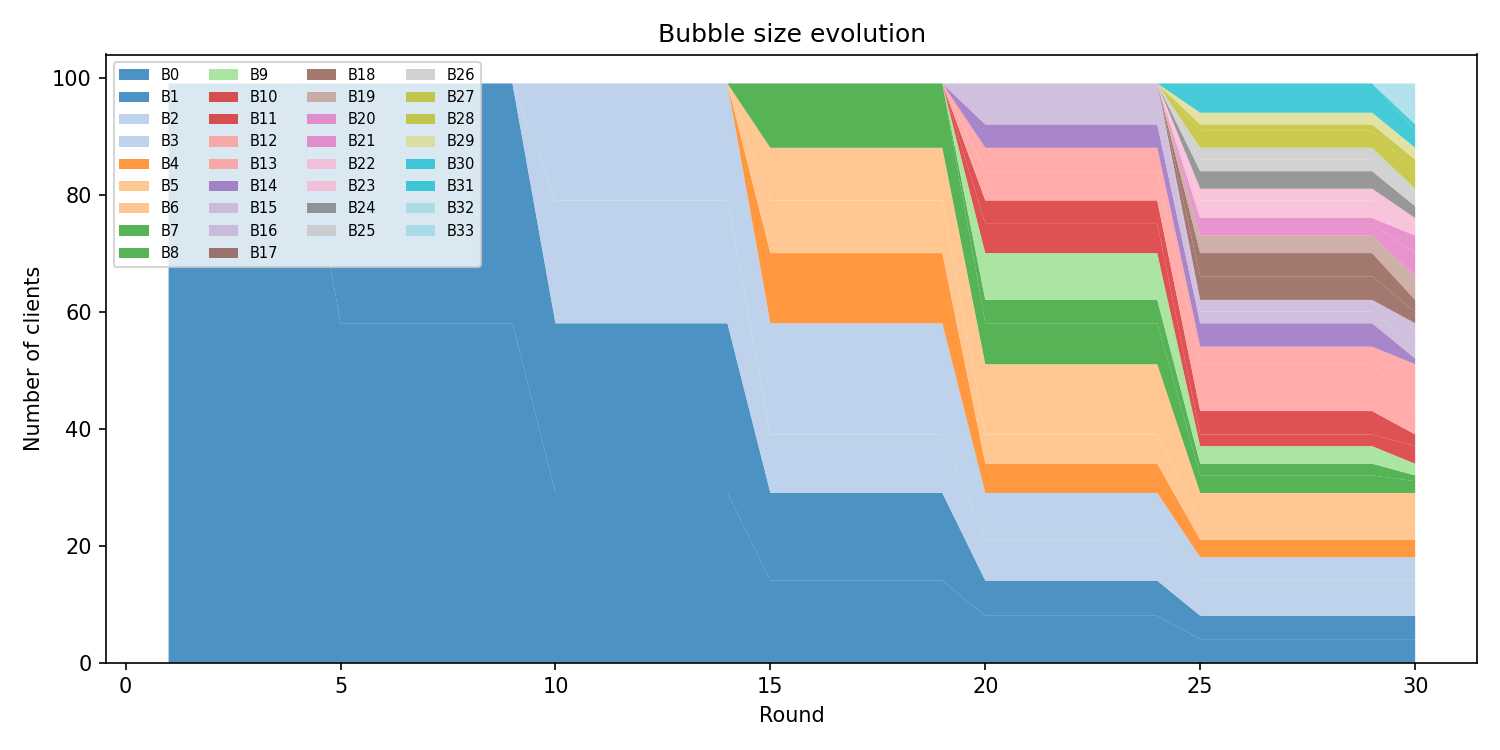
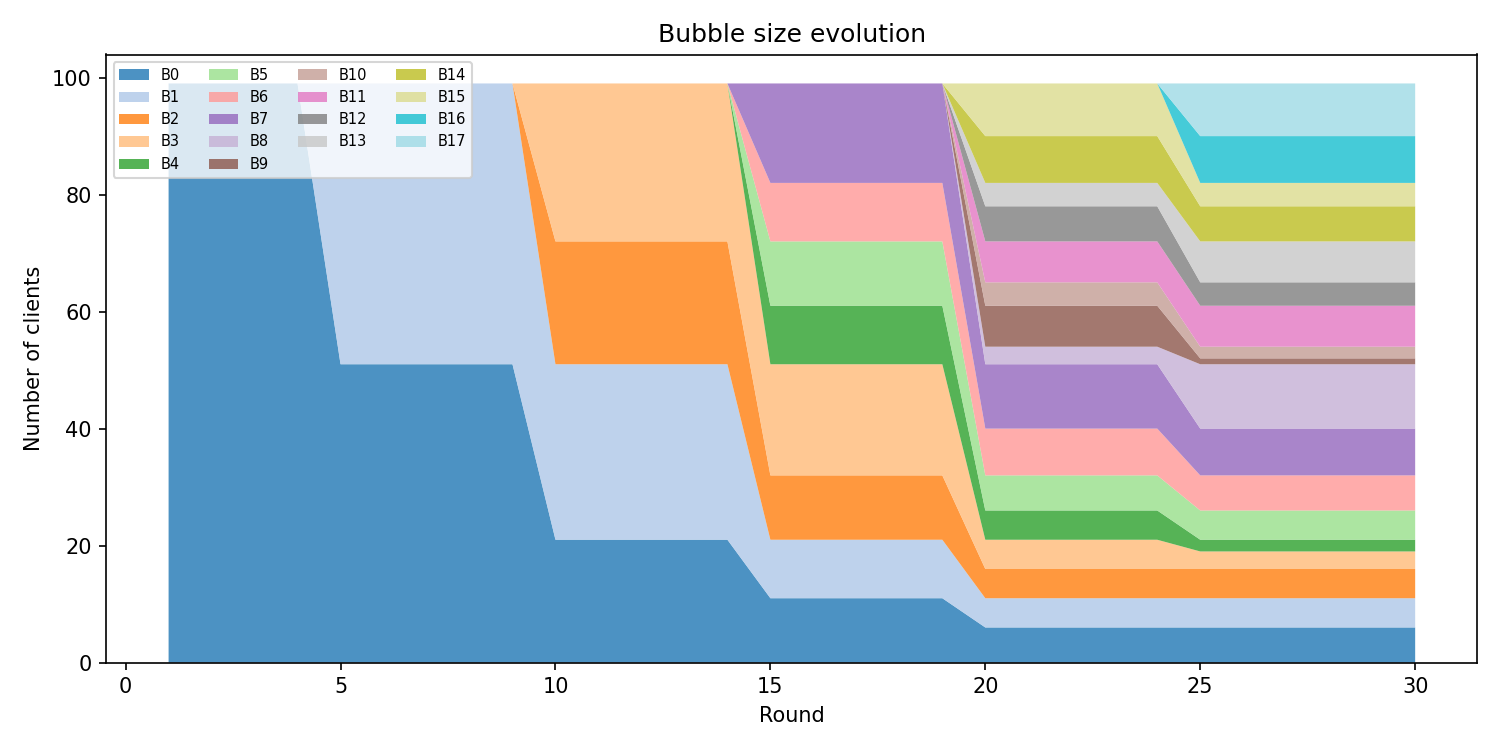
re sweep

diff --git a/train.py b/train.py
@@ -35,8 +35,8 @@ LR = 1e-3
 SPLIT_EVERY = 5
 MERGE_EVERY = 10
 SPLIT_THRESHOLD = 1.0
-MERGE_THRESHOLD = 0.5
-ANNEALING_RATE = 1.5
+MERGE_THRESHOLD = 2.0
+ANNEALING_RATE = 2.0
 
 
 def save_figures(results_dir, figures_dir):
@@ -105,25 +105,49 @@ def save_figures(results_dir, figures_dir):
     plt.savefig(figures_dir / "final_bubbles_scatter.png", dpi=150)
     plt.close()
 
-    # 4. クライアントごとの損失曲線
-    final_round_history = bubble_history[-1]["bubbles"]
-    client_to_bubble = {c: bid for bid, clients in final_round_history.items() for c in clients}
+    # 4. バブルごとの平均損失曲線（ラウンドごとのバブル帰属を使用）
+    all_bubble_ids = sorted({bid for h in bubble_history for bid in h["bubbles"]}, key=int)
+    colors = cm.tab20(np.linspace(0, 1, len(all_bubble_ids)))
+    bubble_color = {bid: c for bid, c in zip(all_bubble_ids, colors)}
+
+    bubble_losses = {}
+    for h in bubble_history:
+        r = h["round"]
+        for bid, clients in h["bubbles"].items():
+            ls = [loss_history[c][r - 1] for c in clients if c in loss_history]
+            if ls:
+                bubble_losses.setdefault(bid, {})[r] = sum(ls) / len(ls)
+
     fig, ax = plt.subplots(figsize=(10, 5))
-    colors = cm.tab20(np.linspace(0, 1, len(final_round_history)))
-    bubble_color = {bid: c for bid, c in zip(sorted(final_round_history, key=int), colors)}
-    plotted_labels = set()
-    for cid, losses in loss_history.items():
-        bid = client_to_bubble.get(cid, "?")
-        color = bubble_color.get(bid, "gray")
-        label = f"B{bid}" if bid not in plotted_labels else "_nolegend_"
-        plotted_labels.add(bid)
-        ax.plot(range(1, len(losses) + 1), losses, color=color, alpha=0.4, linewidth=0.8, label=label)
+    for bid in all_bubble_ids:
+        if bid not in bubble_losses:
+            continue
+        rs = sorted(bubble_losses[bid])
+        ls = [bubble_losses[bid][r] for r in rs]
+        ax.plot(rs, ls, color=bubble_color[bid], linewidth=1.5,
+                marker="o", markersize=3, label=f"B{bid}")
     ax.set_xlabel("Round")
-    ax.set_ylabel("Loss")
-    ax.set_title("Per-client loss curves (colored by final bubble)")
+    ax.set_ylabel("Mean loss")
+    ax.set_title("Per-bubble mean loss curves")
     ax.legend(loc="upper right", fontsize=7, ncol=4)
     plt.tight_layout()
-    plt.savefig(figures_dir / "client_losses.png", dpi=150)
+    plt.savefig(figures_dir / "bubble_losses.png", dpi=150)
+    plt.close()
+
+    # 5. バブルごとの W2² 推移
+    all_w2_bids = sorted({bid for h in bubble_history for bid in h.get("intra_w2", {})}, key=int)
+    colors_w2 = cm.tab20(np.linspace(0, 1, len(all_w2_bids)))
+    fig, ax = plt.subplots(figsize=(10, 5))
+    for bid, color in zip(all_w2_bids, colors_w2):
+        rs = [h["round"] for h in bubble_history if bid in h.get("intra_w2", {})]
+        vs = [h["intra_w2"][bid] for h in bubble_history if bid in h.get("intra_w2", {})]
+        ax.plot(rs, vs, color=color, linewidth=1.5, marker="o", markersize=3, label=f"B{bid}")
+    ax.set_xlabel("Round")
+    ax.set_ylabel("Intra-bubble W2²")
+    ax.set_title("Intra-bubble W2² per round (per bubble)")
+    ax.legend(loc="upper right", fontsize=7, ncol=4)
+    plt.tight_layout()
+    plt.savefig(figures_dir / "intra_w2.png", dpi=150)
     plt.close()
 
     print(f"  figures → {figures_dir}")
@@ -234,10 +258,12 @@ def run(subject_datasets, client_ids, label_stats, results_dir,
                 if verbose:
                     print(f"  [Merge] {before} → {after} bubbles")
 
+        intra_w2 = server.intra_w2_per_bubble(all_stats)
         bubble_history.append({
             "round": round_idx + 1,
             "bubbles": {str(bid): sorted(b["clients"]) for bid, b in server.bubbles.items()},
             "mean_loss": round_mean_loss,
+            "intra_w2": {str(bid): v for bid, v in intra_w2.items()},
         })
 
     # 予測

diff --git a/sweep_ANNEALING.py b/sweep_ANNEALING.py
@@ -1,0 +1,84 @@
+"""
+annealing_rate を複数の値で試すスイープスクリプト．
+結果は保存せず，ラウンドごとの mean loss と mean intra-bubble W2² を閾値ごとの折れ線でプロットする．
+"""
+
+import sys
+import json
+import tempfile
+import matplotlib.pyplot as plt
+import matplotlib.cm as cm
+import numpy as np
+from pathlib import Path
+
+sys.stdout.reconfigure(line_buffering=True)
+sys.path.insert(0, str(Path(__file__).parent))
+
+from train import prepare_data, run, get_device
+
+ANNEALING_RATES = [1.0, 1.2, 1.5, 2.0, 2.5, 3.0]
+SPLIT_THRESHOLD = 1.0
+MERGE_THRESHOLD = 2.0
+
+
+def main():
+    device = get_device()
+    print(f"Device: {device}")
+
+    subject_ids, label_stats, subject_datasets, client_ids = prepare_data(device)
+    print(f"Active clients: {len(client_ids)}")
+
+    colors = cm.tab10(np.linspace(0, 1, len(ANNEALING_RATES)))
+    fig_loss, ax_loss = plt.subplots(figsize=(10, 5))
+    fig_w2,   ax_w2   = plt.subplots(figsize=(10, 5))
+
+    for ar, color in zip(ANNEALING_RATES, colors):
+        print(f"\n--- annealing_rate={ar} ---")
+        with tempfile.TemporaryDirectory() as tmpdir:
+            run(
+                subject_datasets, client_ids, label_stats,
+                results_dir=tmpdir,
+                split_threshold=SPLIT_THRESHOLD,
+                merge_threshold=MERGE_THRESHOLD,
+                annealing_rate=ar,
+                verbose=False,
+            )
+            with open(Path(tmpdir) / "data" / "bubble_history.json") as f:
+                bubble_history = json.load(f)
+
+        rounds = [h["round"] for h in bubble_history]
+        mean_losses = [h["mean_loss"] for h in bubble_history]
+        ax_loss.plot(rounds, mean_losses, color=color, linewidth=1.5,
+                     marker="o", markersize=3, label=f"annealing={ar}")
+
+        mean_w2s = [
+            np.mean(list(h["intra_w2"].values())) if h.get("intra_w2") else 0.0
+            for h in bubble_history
+        ]
+        ax_w2.plot(rounds, mean_w2s, color=color, linewidth=1.5,
+                   marker="o", markersize=3, label=f"annealing={ar}")
+
+    out_dir = Path(__file__).parent / "sweep"
+    out_dir.mkdir(exist_ok=True)
+
+    ax_loss.set_xlabel("Round")
+    ax_loss.set_ylabel("Mean loss")
+    ax_loss.set_title("Mean loss per round (sweep over annealing_rate)")
+    ax_loss.legend(loc="upper right", fontsize=9)
+    fig_loss.tight_layout()
+    fig_loss.savefig(out_dir / "sweep_annealing_loss.png", dpi=150)
+    plt.close(fig_loss)
+
+    ax_w2.set_xlabel("Round")
+    ax_w2.set_ylabel("Mean intra-bubble W2²")
+    ax_w2.set_title("Mean intra-bubble W2² per round (sweep over annealing_rate)")
+    ax_w2.legend(loc="upper right", fontsize=9)
+    fig_w2.tight_layout()
+    fig_w2.savefig(out_dir / "sweep_annealing_w2.png", dpi=150)
+    plt.close(fig_w2)
+
+    print(f"\nDone. Figures saved to {out_dir}")
+
+
+if __name__ == "__main__":
+    main()

diff --git a/sweep_SPLIT.py b/sweep_SPLIT.py
@@ -1,0 +1,84 @@
+"""
+split_threshold を複数の値で試すスイープスクリプト．
+結果は保存せず，ラウンドごとの mean loss と mean intra-bubble W2² を閾値ごとの折れ線でプロットする．
+"""
+
+import sys
+import json
+import tempfile
+import matplotlib.pyplot as plt
+import matplotlib.cm as cm
+import numpy as np
+from pathlib import Path
+
+sys.stdout.reconfigure(line_buffering=True)
+sys.path.insert(0, str(Path(__file__).parent))
+
+from train import prepare_data, run, get_device
+
+SPLIT_THRESHOLDS = [0.5, 1.0, 1.5, 2.0, 2.5, 3.0]
+MERGE_THRESHOLD = 2.0
+ANNEALING_RATE = 2.0
+
+
+def main():
+    device = get_device()
+    print(f"Device: {device}")
+
+    subject_ids, label_stats, subject_datasets, client_ids = prepare_data(device)
+    print(f"Active clients: {len(client_ids)}")
+
+    colors = cm.tab10(np.linspace(0, 1, len(SPLIT_THRESHOLDS)))
+    fig_loss, ax_loss = plt.subplots(figsize=(10, 5))
+    fig_w2,   ax_w2   = plt.subplots(figsize=(10, 5))
+
+    for st, color in zip(SPLIT_THRESHOLDS, colors):
+        print(f"\n--- split_threshold={st} ---")
+        with tempfile.TemporaryDirectory() as tmpdir:
+            run(
+                subject_datasets, client_ids, label_stats,
+                results_dir=tmpdir,
+                split_threshold=st,
+                merge_threshold=MERGE_THRESHOLD,
+                annealing_rate=ANNEALING_RATE,
+                verbose=False,
+            )
+            with open(Path(tmpdir) / "data" / "bubble_history.json") as f:
+                bubble_history = json.load(f)
+
+        rounds = [h["round"] for h in bubble_history]
+        mean_losses = [h["mean_loss"] for h in bubble_history]
+        ax_loss.plot(rounds, mean_losses, color=color, linewidth=1.5,
+                     marker="o", markersize=3, label=f"split={st}")
+
+        mean_w2s = [
+            np.mean(list(h["intra_w2"].values())) if h.get("intra_w2") else 0.0
+            for h in bubble_history
+        ]
+        ax_w2.plot(rounds, mean_w2s, color=color, linewidth=1.5,
+                   marker="o", markersize=3, label=f"split={st}")
+
+    out_dir = Path(__file__).parent / "sweep"
+    out_dir.mkdir(exist_ok=True)
+
+    ax_loss.set_xlabel("Round")
+    ax_loss.set_ylabel("Mean loss")
+    ax_loss.set_title("Mean loss per round (sweep over split_threshold)")
+    ax_loss.legend(loc="upper right", fontsize=9)
+    fig_loss.tight_layout()
+    fig_loss.savefig(out_dir / "sweep_split_loss.png", dpi=150)
+    plt.close(fig_loss)
+
+    ax_w2.set_xlabel("Round")
+    ax_w2.set_ylabel("Mean intra-bubble W2²")
+    ax_w2.set_title("Mean intra-bubble W2² per round (sweep over split_threshold)")
+    ax_w2.legend(loc="upper right", fontsize=9)
+    fig_w2.tight_layout()
+    fig_w2.savefig(out_dir / "sweep_split_w2.png", dpi=150)
+    plt.close(fig_w2)
+
+    print(f"\nDone. Figures saved to {out_dir}")
+
+
+if __name__ == "__main__":
+    main()

diff --git a/sweep_MERGE.py b/sweep_MERGE.py
@@ -1,0 +1,84 @@
+"""
+merge_threshold を複数の値で試すスイープスクリプト．
+結果は保存せず，ラウンドごとの mean loss を閾値ごとの折れ線でプロットする．
+"""
+
+import sys
+import json
+import tempfile
+import matplotlib.pyplot as plt
+import matplotlib.cm as cm
+import numpy as np
+from pathlib import Path
+
+sys.stdout.reconfigure(line_buffering=True)
+sys.path.insert(0, str(Path(__file__).parent))
+
+from train import prepare_data, run, get_device
+
+MERGE_THRESHOLDS = [0.5, 1.0, 1.5, 2.0, 2.5, 3.0]
+SPLIT_THRESHOLD = 1.0
+ANNEALING_RATE = 2.0
+
+
+def main():
+    device = get_device()
+    print(f"Device: {device}")
+
+    subject_ids, label_stats, subject_datasets, client_ids = prepare_data(device)
+    print(f"Active clients: {len(client_ids)}")
+
+    colors = cm.tab10(np.linspace(0, 1, len(MERGE_THRESHOLDS)))
+    fig_loss, ax_loss = plt.subplots(figsize=(10, 5))
+    fig_w2,   ax_w2   = plt.subplots(figsize=(10, 5))
+
+    for mt, color in zip(MERGE_THRESHOLDS, colors):
+        print(f"\n--- merge_threshold={mt} ---")
+        with tempfile.TemporaryDirectory() as tmpdir:
+            run(
+                subject_datasets, client_ids, label_stats,
+                results_dir=tmpdir,
+                split_threshold=SPLIT_THRESHOLD,
+                merge_threshold=mt,
+                annealing_rate=ANNEALING_RATE,
+                verbose=False,
+            )
+            with open(Path(tmpdir) / "data" / "bubble_history.json") as f:
+                bubble_history = json.load(f)
+
+        rounds = [h["round"] for h in bubble_history]
+        mean_losses = [h["mean_loss"] for h in bubble_history]
+        ax_loss.plot(rounds, mean_losses, color=color, linewidth=1.5,
+                     marker="o", markersize=3, label=f"merge={mt}")
+
+        mean_w2s = [
+            np.mean(list(h["intra_w2"].values())) if h.get("intra_w2") else 0.0
+            for h in bubble_history
+        ]
+        ax_w2.plot(rounds, mean_w2s, color=color, linewidth=1.5,
+                   marker="o", markersize=3, label=f"merge={mt}")
+
+    out_dir = Path(__file__).parent / "sweep"
+    out_dir.mkdir(exist_ok=True)
+
+    ax_loss.set_xlabel("Round")
+    ax_loss.set_ylabel("Mean loss")
+    ax_loss.set_title("Mean loss per round (sweep over merge_threshold)")
+    ax_loss.legend(loc="upper right", fontsize=9)
+    fig_loss.tight_layout()
+    fig_loss.savefig(out_dir / "sweep_loss.png", dpi=150)
+    plt.close(fig_loss)
+
+    ax_w2.set_xlabel("Round")
+    ax_w2.set_ylabel("Mean intra-bubble W2²")
+    ax_w2.set_title("Mean intra-bubble W2² per round (sweep over merge_threshold)")
+    ax_w2.legend(loc="upper right", fontsize=9)
+    fig_w2.tight_layout()
+    fig_w2.savefig(out_dir / "sweep_w2.png", dpi=150)
+    plt.close(fig_w2)
+
+    print(f"\nDone. Figures saved to {out_dir}")
+
+
+if __name__ == "__main__":
+    main()

diff --git a/bubble_manager.py b/bubble_manager.py
@@ -41,6 +41,24 @@ class BubbleManager:
             new_state[name] = state[name].to(avg_delta.device) + avg_delta
         self.bubbles[bubble_id]["state"] = new_state
 
+    def intra_w2_per_bubble(self, client_stats):
+        """バブルごとのバブル内ペア W2² 平均を返す: {bid: float}"""
+        result = {}
+        for bid, bubble in self.bubbles.items():
+            clients = [c for c in bubble["clients"] if c in client_stats]
+            if len(clients) < 2:
+                result[bid] = 0.0
+                continue
+            mus  = torch.stack([client_stats[c][0] for c in clients])
+            sigs = torch.stack([client_stats[c][1] for c in clients])
+            mu_diff  = mus.unsqueeze(1)  - mus.unsqueeze(0)
+            sig_diff = sigs.unsqueeze(1) - sigs.unsqueeze(0)
+            w2_sq = (mu_diff ** 2).sum(dim=2) + (sig_diff ** 2).sum(dim=2)
+            n = len(clients)
+            triu = w2_sq.triu(diagonal=1)
+            result[bid] = float((triu.sum() / (n * (n - 1) / 2)).item())
+        return result
+
     @staticmethod
     def _w2_sq(mu_a, sig_a, mu_b, sig_b):
         """2-Wasserstein 距離の二乗（ガウス近似）"""
